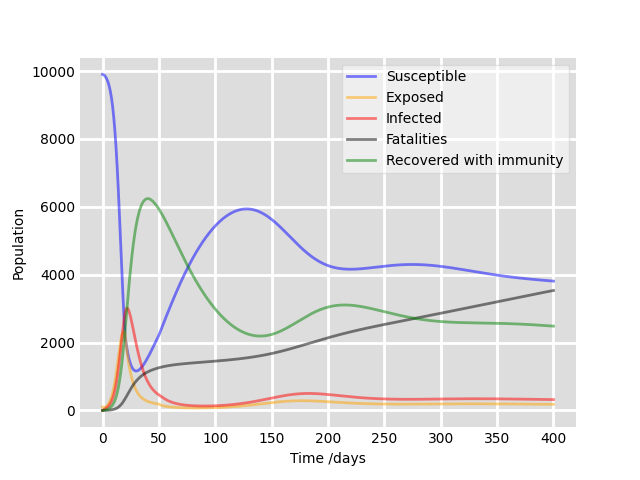
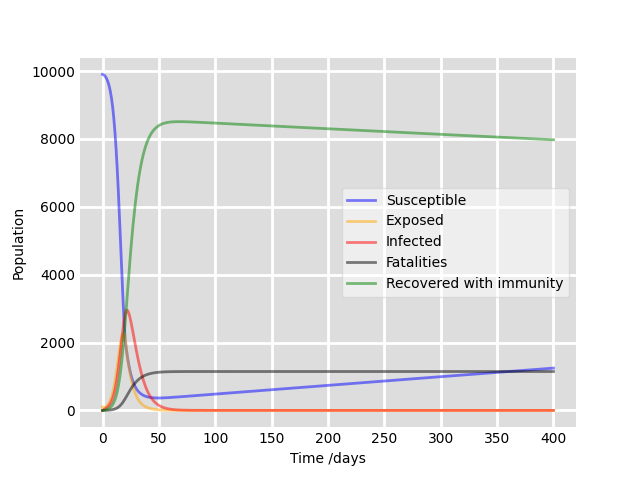
Fix/data assimilation (#13)

diff --git a/src/data_assimilation.py b/src/data_assimilation.py
@@ -17,7 +17,7 @@ def apply_noise(model, deviation):
 
 def assimilate(noisy_baseline, surogate_params):
     case = adaoBuilder.New()
-    case.set( 'AlgorithmParameters', Algorithm = '3DVAR' )
+    case.set( 'AlgorithmParameters', Algorithm = '3DVAR', Parameters = {"Bounds": [[0,1] for _ in range(6)]} )
     case.set( 'Background',          Vector = surogate_params )
     case.set( 'Observation',         VectorSerie = noisy_baseline )
     case.set( 'ObservationOperator', OneFunction = True, Script = 'data_assimilation_funcs.py')
@@ -34,8 +34,9 @@ if __name__=="__main__":
     from data_assimilation_funcs import seidr_from_params
 
     baseline = pd.read_csv(f'{OUTPUT_DIRECTORY_PATH}/baseline.csv', usecols=[i for i in range(1,6)])
+    baseline = baseline[:80]
     surogate = [  # The best params I could get anything sensible with
-        0.9, 0.45, 0.3, 0.15, 0.3, 0.02, 0.02
+        0.9, 0.45, 0.3, 0.15, 0.3, 0.02
     ]
     noisy_baseline = apply_noise(baseline, deviation=10).T  # The biggest noise I could get anything sensible with
     noisy_baseline.T.to_csv(f'{OUTPUT_DIRECTORY_PATH}/noisy_baseline.csv')
@@ -44,11 +45,14 @@ if __name__=="__main__":
     plt.savefig(f'{OUTPUT_DIRECTORY_PATH}/noisy_baseline.png')
 
 
-    model = seidr_from_params(surogate, name=f'assimilation/before_assimilation')
+    model = seidr_from_params(surogate, name=f'assimilation/before_assimilation', no_of_days=400)
     model.plot()
 
     x = assimilate(noisy_baseline, surogate_params=surogate)
     
-    model = seidr_from_params(x, name=f'assimilation/after_assimilation') 
+    model = seidr_from_params(x, name=f'assimilation/after_assimilation', no_of_days=400) 
     model.plot()
     print(x)
+
+    baseline = pd.read_csv(f'{OUTPUT_DIRECTORY_PATH}/baseline.csv', usecols=[i for i in range(1,6)])
+    print(f'MSE: {((baseline.to_numpy()[80:] - model.results[80:])**2).mean()}')

diff --git a/src/data_assimilation_funcs.py b/src/data_assimilation_funcs.py
@@ -5,14 +5,15 @@ def DirectOperator(params):
     seidr = seidr_from_params(params)
     return seidr.results.T
 
-def seidr_from_params(params, name="test"):
+def seidr_from_params(params, name="test", no_of_days=79):
     seidr = SEIDR(
         name,
         beta_values = [params[i] for i in range(3)],
         gamma = params[3],
         epsilon = params[4],
         alpha = params[5],
-        delta = params[6]
+        delta = 0,
+        no_of_days=no_of_days
     )
     seidr.calculate()
     return seidr
